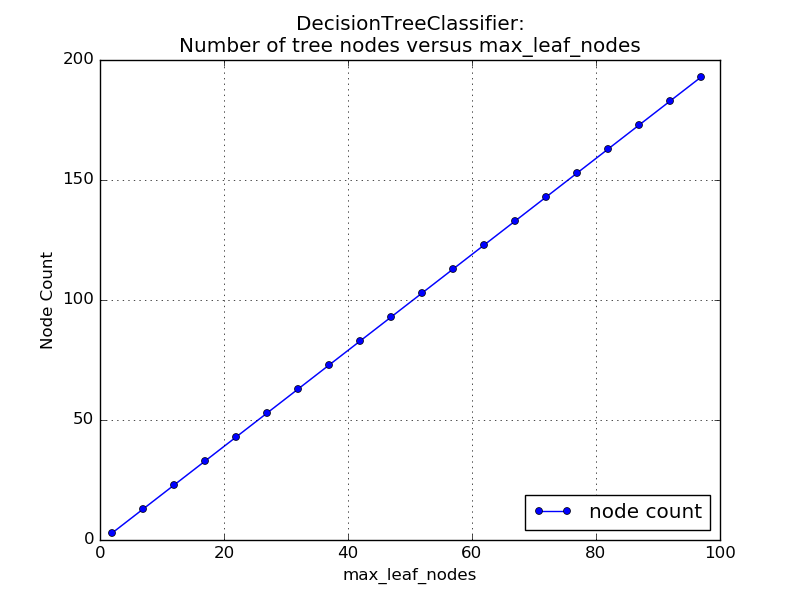
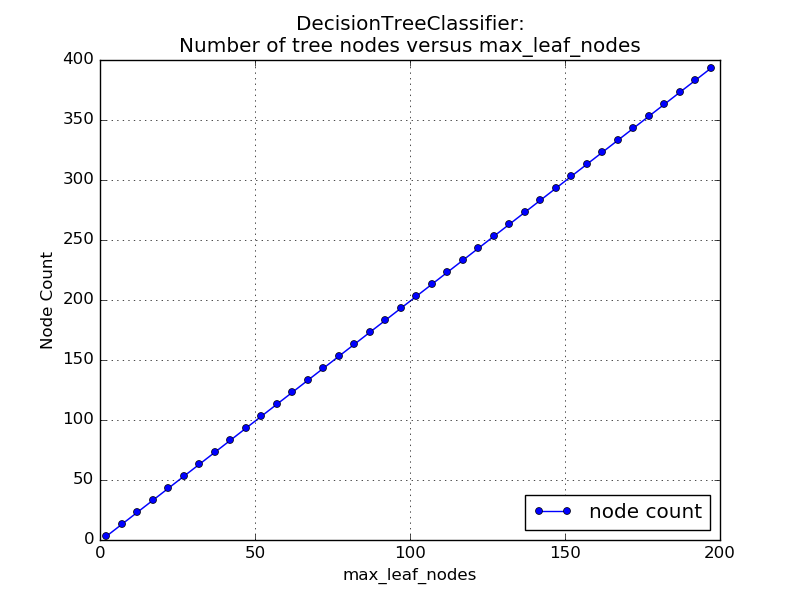
running

diff --git a/Assignment1/validation_curves_tree.py b/Assignment1/validation_curves_tree.py
@@ -95,7 +95,7 @@ class validation_curves:
                        'min_samples_split': np.arange(1, 200, 5),
                        'min_samples_leaf': np.arange(2, 200, 5),
                        'min_weight_fraction_leaf': np.arange(0.0, 0.5, 0.05),
-                       'max_leaf_nodes': np.arange(2, 100, 5)}
+                       'max_leaf_nodes': np.arange(2, 200, 5)}
         #params_dict = {'max_depth': np.arange(1, 40, 1)}
         
         learner_name = 'DecisionTreeClassifier'
